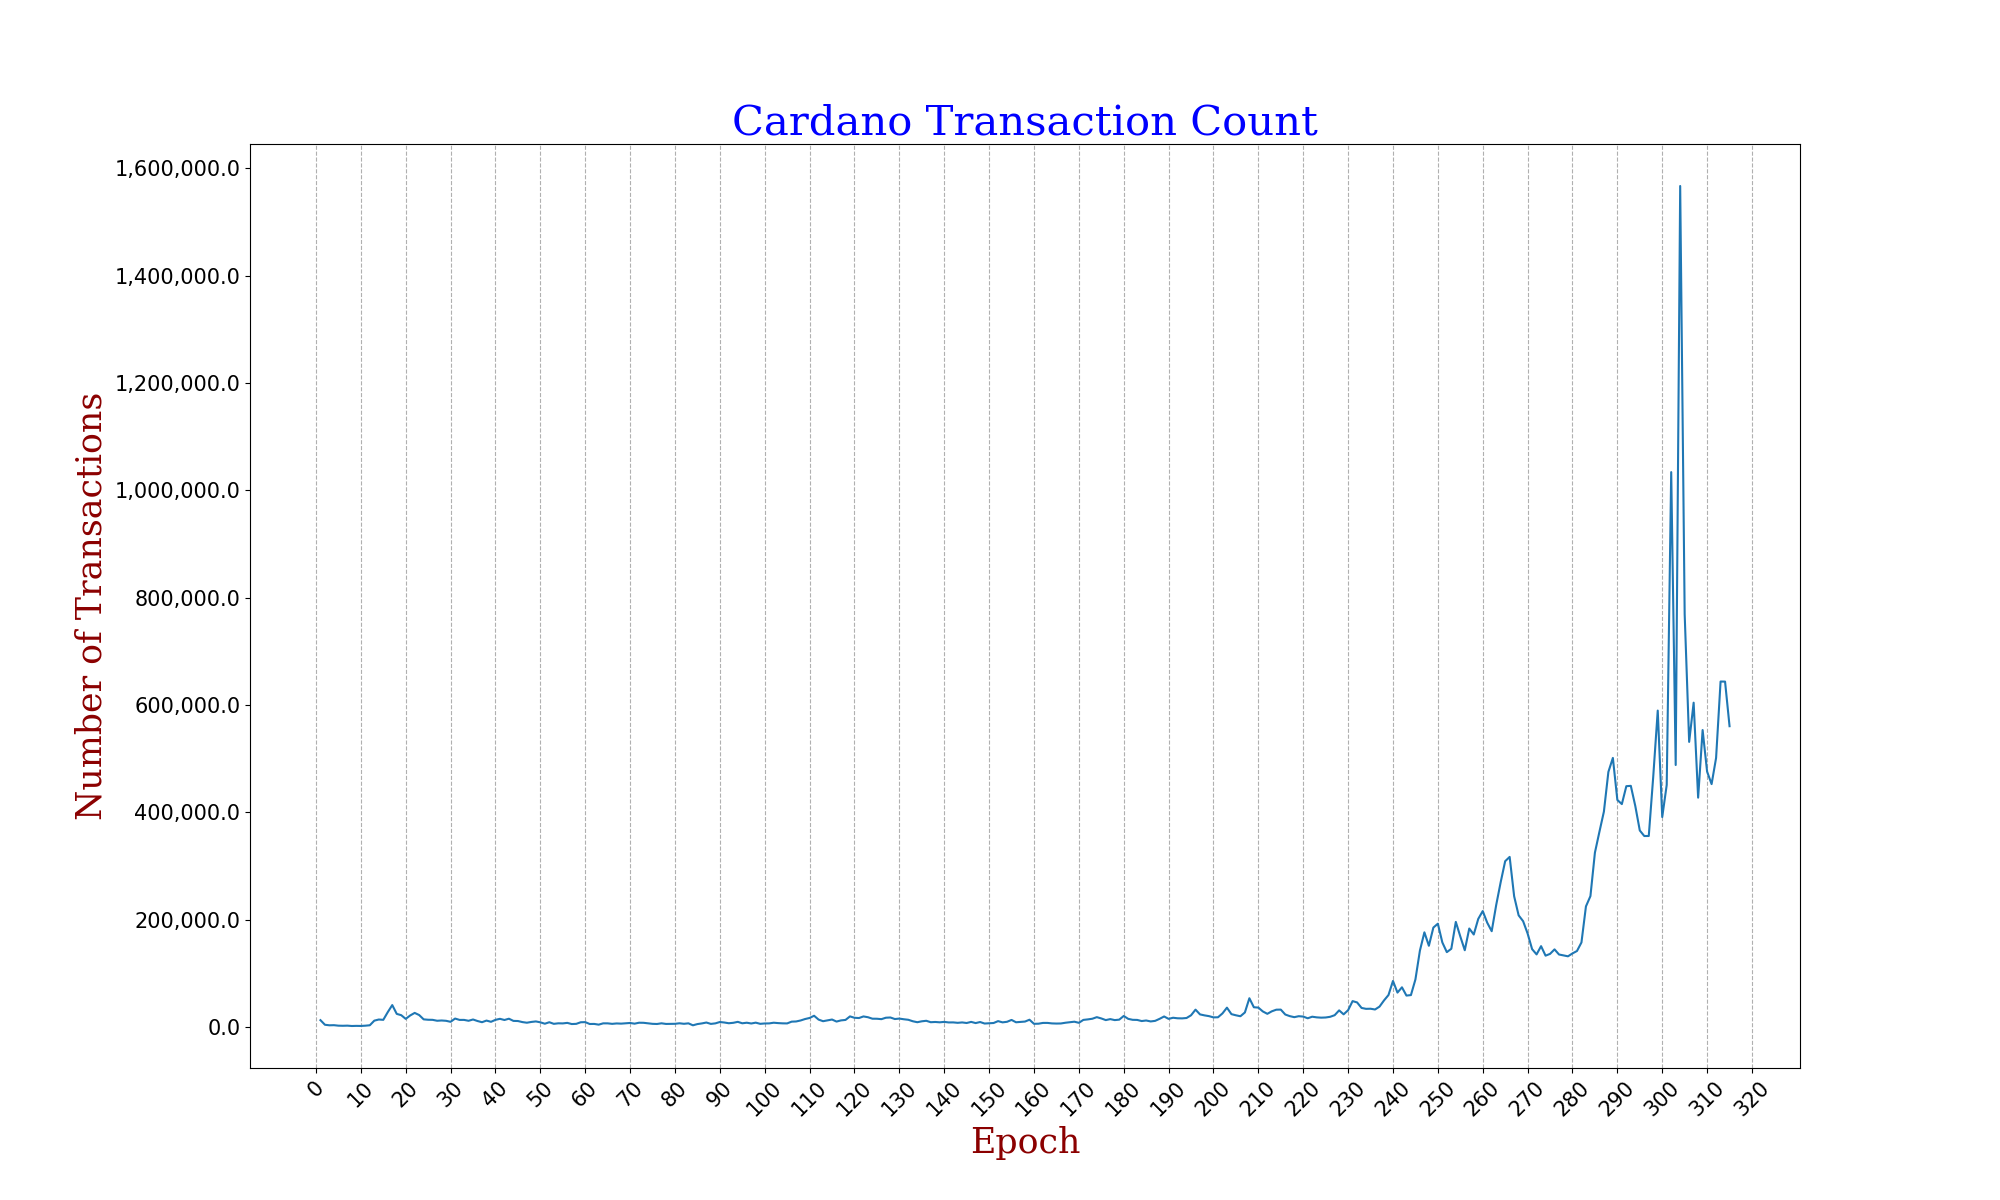
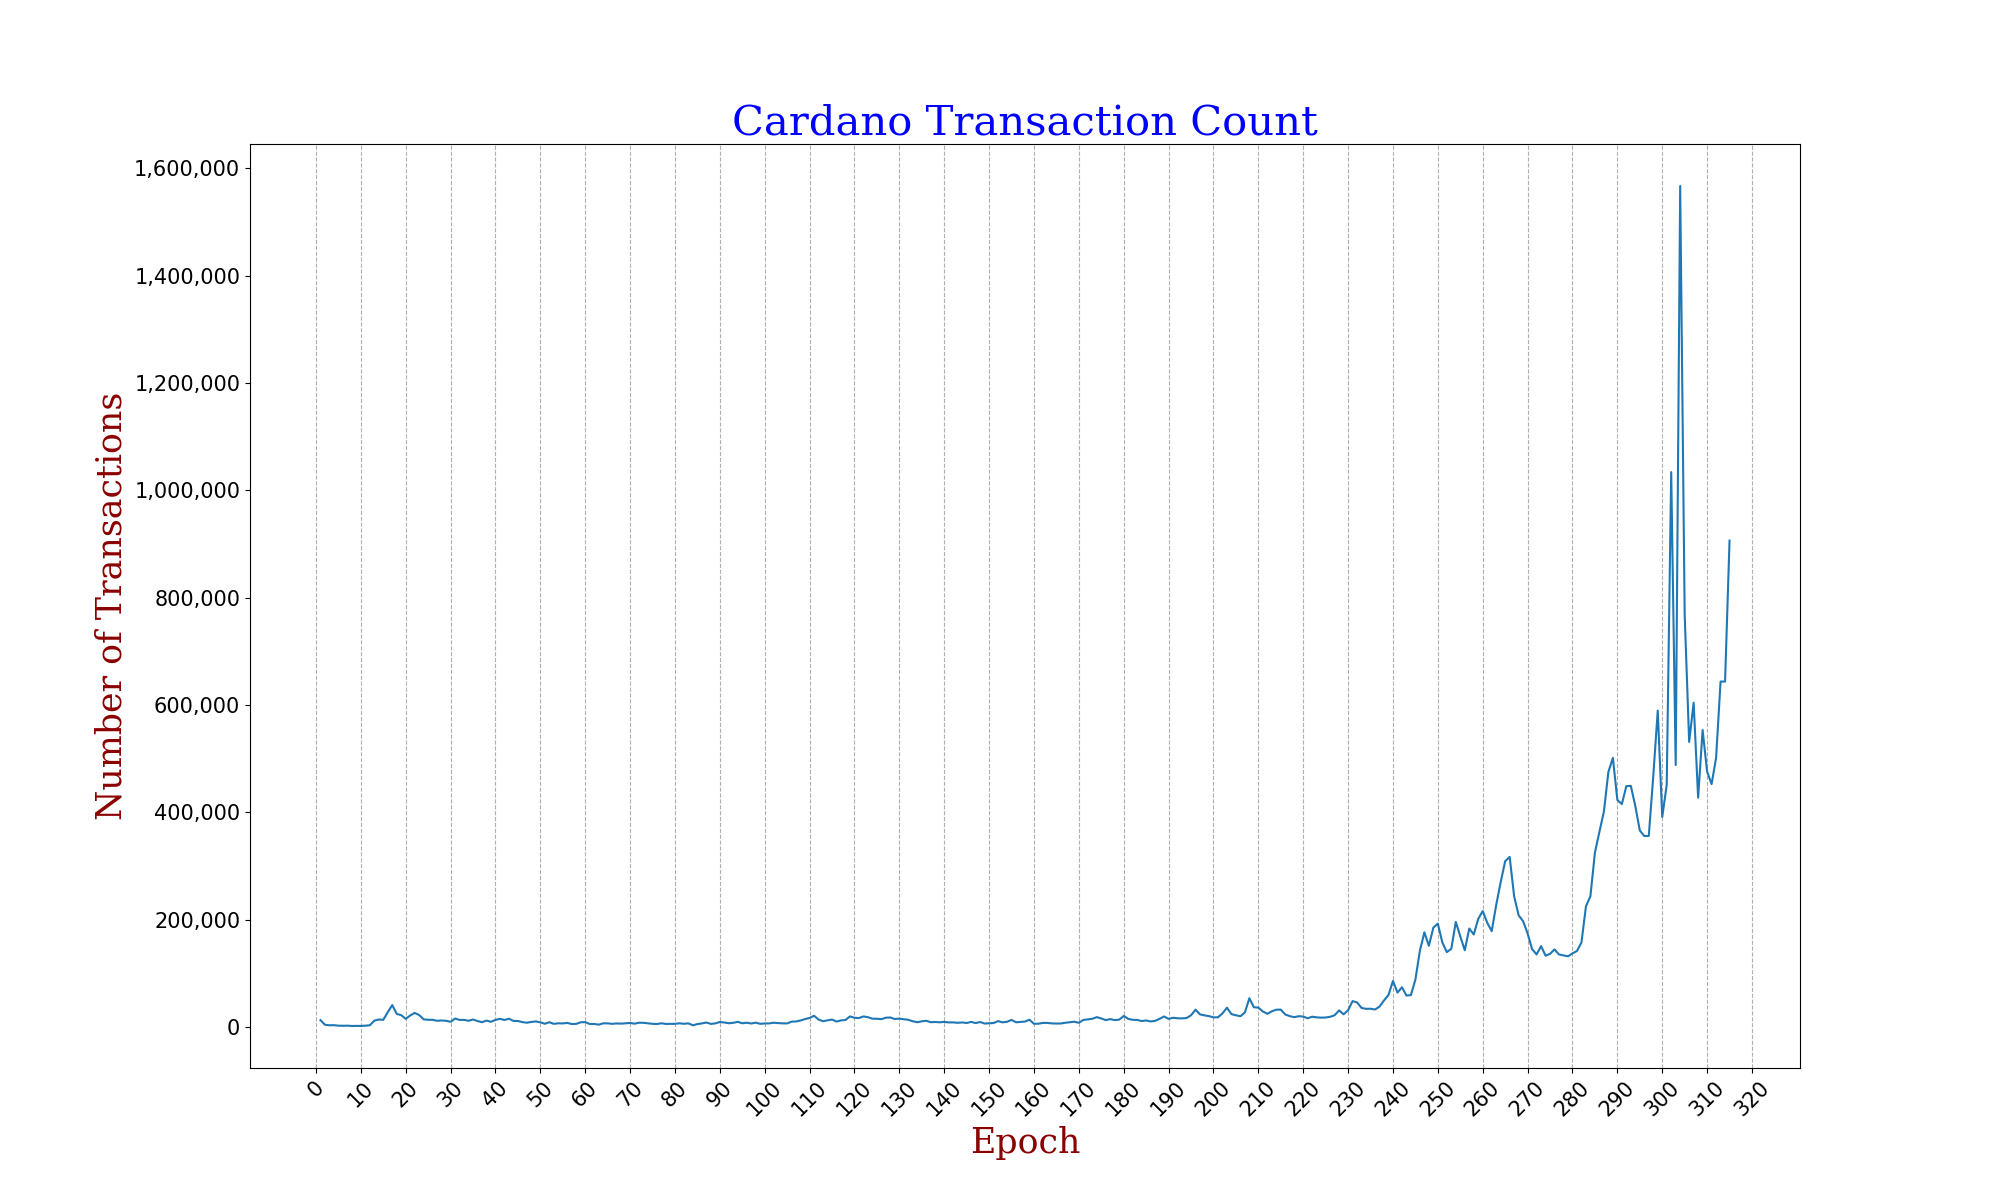
Added zoomed chart
also removed decimals in y label in chart

diff --git a/blockfrost/blockfrostAPI.py b/blockfrost/blockfrostAPI.py
@@ -17,9 +17,9 @@ def main():
     # StaKePoolList = getStakePoolList()
     # print(StaKePoolList)
 
-    epochTxCount = getTransactionCount(createChart=True)
-    for key, value in epochTxCount.items():
-        print(key, ':', value)
+    epochTxCount = getTransactionCount(createChart=True, chartName='CardanoTxCount.png')
+    # for key, value in epochTxCount.items():
+    #     print(key, ':', value)
 
 
 def getStakeAddr():
@@ -58,7 +58,7 @@ def getStakePoolList():
     return poolList
 
 
-def getTransactionCount(createChart=False):
+def getTransactionCount(createChart=False, chartName=""):
     call_type1 = 'epochs' 
     call_type2 = 'next'
     epochNumber = 0
@@ -81,26 +81,32 @@ def getTransactionCount(createChart=False):
         # epochTxCount.update({ nextEpochsData[i]['epoch'] : [nextEpochsData[i]['tx_count'], posixToDate(nextEpochsData[i]['start_time'])] })
     
     if createChart == True:
-        chart_TxCount(epochTxCount)
+        chart_TxCount(epochTxCount, chartName)
         
     return epochTxCount # returns dict
 
 
-def chart_TxCount(epochTxCount):
+def chart_TxCount(epochTxCount, chartName="chart.png"):
     x = np.array(list(epochTxCount.keys())) # epochs
     y = np.array(list(epochTxCount.values())) # transaction count
     
     font1 = {'family':'serif','color':'blue','size':30}
     font2 = {'family':'serif','color':'darkred','size':25}
     plt.rcParams["figure.figsize"] = (20,12)
-
+    
+    x = x[:-1]
+    y = y[:-1]
+    # x = x[300:-1]
+    # y = y[300:-1]
+    
     fig, ax = plt.subplots()
     plt.plot(x, y)
     
-    plt.xticks(np.arange(min(x)-1, max(x)+9, 10.0))
+    plt.xticks(np.arange(min(x)-1, max(x)+9, 10.0)) # all epochs
+    # plt.xticks(np.arange(min(x)-1, max(x)+1, 1.0)) # zoomed in
     plt.xticks(fontsize=15, rotation=45)
     plt.yticks(fontsize=15)
-    ax.yaxis.set_major_formatter(StrMethodFormatter('{x:,}'))
+    ax.yaxis.set_major_formatter(StrMethodFormatter('{x:,.0f}'))
     
     plt.title("Cardano Transaction Count", fontdict = font1)
     plt.xlabel("Epoch", fontdict = font2)
@@ -108,7 +114,7 @@ def chart_TxCount(epochTxCount):
     plt.grid(axis = 'x', linestyle = 'dashed')
 
     dir_path = os.path.dirname(os.path.realpath(__file__))
-    plt.savefig(dir_path + '/charts/CardanoTxCount.png')
+    plt.savefig(dir_path + '/charts/' + chartName)
     # plt.show()
 
 
